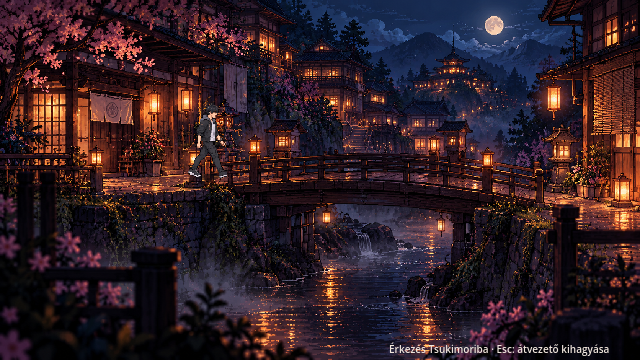
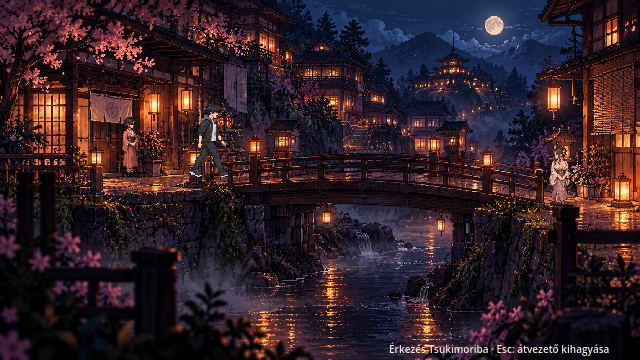
Stage Akira from the left and add watching residents to arrival scenes

diff --git a/docs/ARRIVAL_CINEMATIC_REVIEW.md b/docs/ARRIVAL_CINEMATIC_REVIEW.md
@@ -1,5 +1,7 @@
 # Arrival through Miyako — REVIEW, 2026-09-27
 
+Owner correction: Akira enters the final house shot from the left (x=145), walks right and stops left of Miyako (x=270). Natural completion and skipping share this destination. All three live arrival scenes now contain watching anonymous women: four in the street, two at the bridge edges and two at the house edges. The existing approved resident atlases are reused; their look frames follow Akira's horizontal position. Miyako's reveal remains at the house.
+
 Owner approved: the three-quarter village view can be a live in-game cinematic through Miyako's first meeting. It is not a universal camera requirement. Side-view gameplay remains supported; the house forecourt is the first controllable area in this build.
 
 F5: original 96.5-second black/bus/arrival/window/gate opening, then 13 seconds of directed Village Street movement and resident remarks, 21 seconds of bridge crossing including a three-second hold, seven seconds of house approach, and ten seconds of greeting. Miyako's line remains “Dr. Akira. Már vártam.” The scene uses independent live actors, rain and animated poses; it is not a video. Input unlocks only after the greeting. ESC confirmation skips the entire arrival to the house. Repeated completion is idempotent. All completion paths set opening_intro_seen, entered_tsukimori, crossed_bridge, met_miyako and arrival_cinematic_seen.
